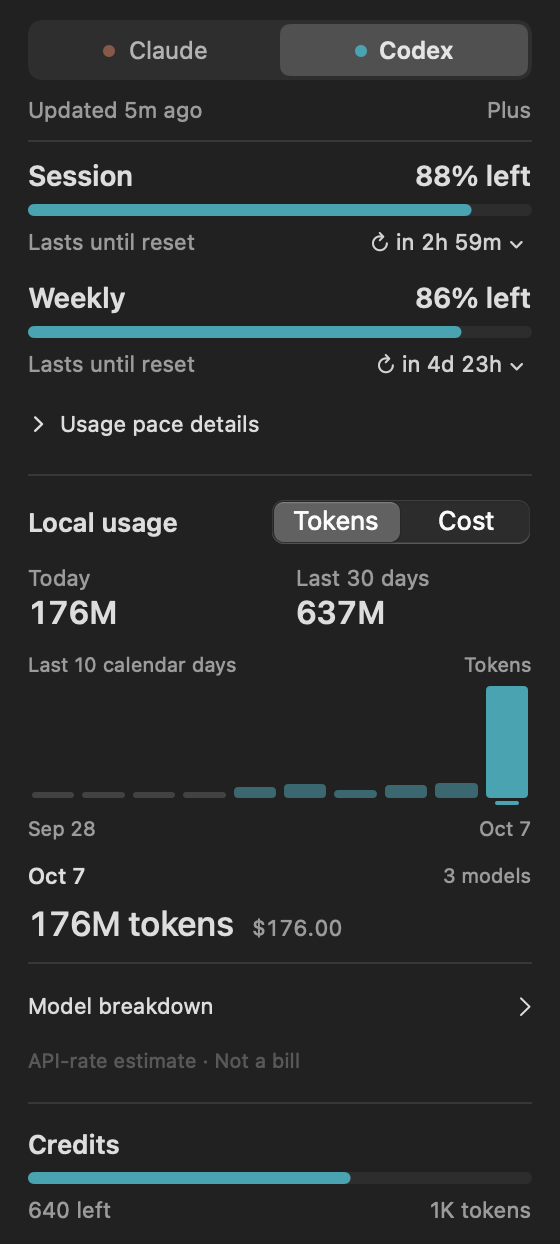
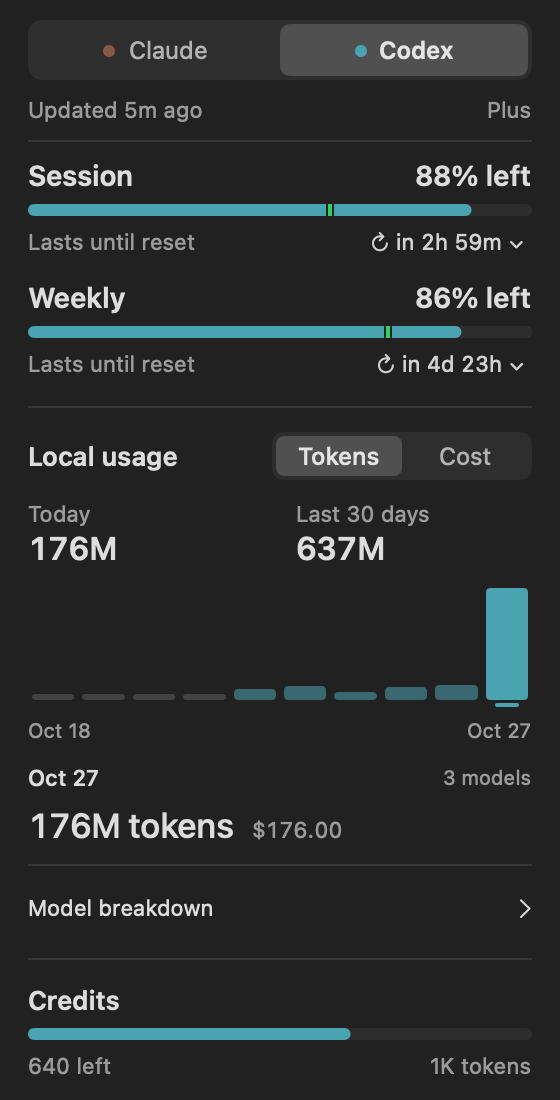
docs(readme): sync README text and card screenshots with the app (#27)
## Summary

README claims checked against the code; four drifted.

```diff
 Reading the chart
-  Reopen the card to resume hover previews.
+  Click the pinned day again, or reopen the card, to resume hover previews.   # toggleDay, #24
 Local storage paths
+  ~/Library/WebKit/com.quotabar.app   # usage report view settings (report.js localStorage)
 make readme-assets
-  ...sign-in, refresh-failure, and invalid-price states
+  ...light and dark card, sign-in, and refresh-failure states                # pricing-invalid.png removed in #13
 README.zh-CN troubleshooting
   clarify that Local, free, and Fast third-party usage are three separate unpriced cases
```

Card screenshots were still from the first release and showed UI removed
since (Usage pace details row, "API-rate estimate · Not a bill" footer,
"Last 10 calendar days" chart header, no pace marks). Regenerated with
`make readme-assets`; only the five stale images are committed.

## Evidence

- **Before:**
![before](https://raw.githubusercontent.com/softmaxe/quota-bar/c377898901ddad2c6e7a825f03d75b4574d42746/docs/images/hero.png)
**After:**
![after](https://raw.githubusercontent.com/softmaxe/quota-bar/ceb99b30e299b936c51ea675e7279f186367f645/docs/images/hero.png)

## Merge Danger

**Door:** two-way

**Blast Radius:** docs

Docs and images only. The cask's `zap` list still misses
`~/Library/WebKit/com.quotabar.app`; that belongs in
softmaxe/homebrew-tap.

diff --git a/README.md b/README.md
@@ -156,7 +156,7 @@ QuotaBar counts tokens in local session logs and estimates what that usage would
 
 Choose **Tokens** or **Cost** above the chart. The chart shows the last 10 calendar days; the summary shows today and the last 30 days.
 
-Hover to preview a day, click to pin it, or use the Left and Right Arrow keys when a date is focused. Expand **Model breakdown** to see that day's models and keep the date fixed. Each model shows the mark of the tool that used it and a bar of its share of the day in the chosen unit. Reopen the card to resume hover previews. Switching units keeps the selected date.
+Hover to preview a day, click to pin it, or use the Left and Right Arrow keys when a date is focused. Expand **Model breakdown** to see that day's models and keep the date fixed. Each model shows the mark of the tool that used it and a bar of its share of the day in the chosen unit. Click the pinned day again, or reopen the card, to resume hover previews. Switching units keeps the selected date.
 
 The chart distinguishes zero usage from missing data:
 
@@ -241,6 +241,7 @@ QuotaBar uses timestamps, models, token counts, record IDs, and account IDs need
 ~/Library/Application Support/QuotaBar/third-party-rates.json
 ~/Library/Application Support/QuotaBar/cost-usage/cost-usage.sqlite
 ~/Library/Preferences/com.quotabar.app.plist
+~/Library/WebKit/com.quotabar.app        # usage report view settings
 ```
 
 </details>
@@ -300,7 +301,7 @@ make build
 
 Use `signed-out` or `stale` instead of `loaded` to inspect those states, or `motion` to watch the card's animations with slowed sample data. Preview uses isolated preferences and temporary history. It does not read credentials, contact providers, or scan real logs. Choose **Quit** in the preview to clear its temporary data. Running it alongside the installed app adds a second menu bar icon.
 
-`make readme-assets` renders both READMEs' shared images from the current views with sample data, including the sign-in, refresh-failure, and invalid-price states. Regenerate them after changing the UI.
+`make readme-assets` renders both READMEs' shared images from the current views with sample data, including the light and dark card, sign-in, and refresh-failure states. Regenerate them after changing the UI.
 
 Image generation requires ffmpeg. The report screenshot also needs Node.js and Playwright from `playwright-cli` or `PLAYWRIGHT_MODULE`. It uses Brave by default, or the browser at `CHROMIUM_PATH`. See [report development checks](docs/usage-report.md#verification) and [rendering notes](docs/design-implementation.md).
 
